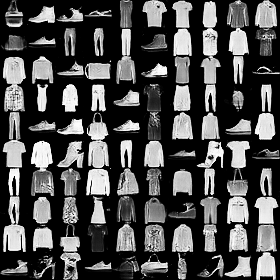
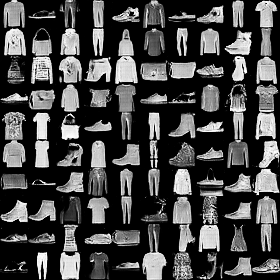
add acgan results

diff --git a/README.md b/README.md
@@ -10,10 +10,21 @@
 | Type | Epochs 1 | Epochs 15 | Epochs 30 |
 | ---- | -------- | --------- | --------- |
 | GAN | ![](./results/gan/original-MNIST-val-e001.png) | ![](./results/gan/original-MNIST-val-e015.png) | ![](./results/gan/original-MNIST-val-e030.png) |
-| CGAN | ![](./results/cgan/original-MNIST-val-e001.png) | ![](./results/cgan/original-MNIST-val-e015.png) | ![](./results/cgan/original-MNIST-val-e030.png) |
 | WGAN | ![](./results/wgan/original-MNIST-val-e001.png) | ![](./results/wgan/original-MNIST-val-e015.png) | ![](./results/wgan/original-MNIST-val-e030.png) |
 | WGAN-GP | ![](./results/wgan-gp/original-MNIST-val-e001.png) | ![](./results/wgan-gp/original-MNIST-val-e015.png) | ![](./results/wgan-gp/original-MNIST-val-e030.png) |
 | DRAGAN | ![](./results/dragan/original-MNIST-val-e001.png) | ![](./results/dragan/original-MNIST-val-e015.png) | ![](./results/dragan/original-MNIST-val-e030.png) |
+| CGAN | ![](./results/cgan/original-MNIST-val-e001.png) | ![](./results/cgan/original-MNIST-val-e015.png) | ![](./results/cgan/original-MNIST-val-e030.png) |
+| ACGAN | ![](./results/acgan/original-MNIST-val-e001.png) | ![](./results/acgan/original-MNIST-val-e015.png) | ![](./results/acgan/original-MNIST-val-e030.png) |
+
+## Fashion-MNIST Results
+| Type | Epochs 1 | Epochs 15 | Epochs 30 |
+| ---- | -------- | --------- | --------- |
+| GAN | ![](./results/gan/fashion-MNIST-val-e001.png) | ![](./results/gan/fashion-MNIST-val-e015.png) | ![](./results/gan/fashion-MNIST-val-e030.png) |
+| WGAN | ![](./results/wgan/fashion-MNIST-val-e001.png) | ![](./results/wgan/fashion-MNIST-val-e015.png) | ![](./results/wgan/fashion-MNIST-val-e030.png) |
+| WGAN-GP | ![](./results/wgan-gp/fashion-MNIST-val-e001.png) | ![](./results/wgan-gp/fashion-MNIST-val-e015.png) | ![](./results/wgan-gp/fashion-MNIST-val-e030.png) |
+| DRAGAN | ![](./results/dragan/fashion-MNIST-val-e001.png) | ![](./results/dragan/fashion-MNIST-val-e015.png) | ![](./results/dragan/fashion-MNIST-val-e030.png) |
+| CGAN | ![](./results/cgan/fashion-MNIST-val-e001.png) | ![](./results/cgan/fashion-MNIST-val-e015.png) | ![](./results/cgan/fashion-MNIST-val-e030.png) |
+| ACGAN | ![](./results/acgan/fashion-MNIST-val-e001.png) | ![](./results/acgan/fashion-MNIST-val-e015.png) | ![](./results/acgan/fashion-MNIST-val-e030.png) |
   
 
 
